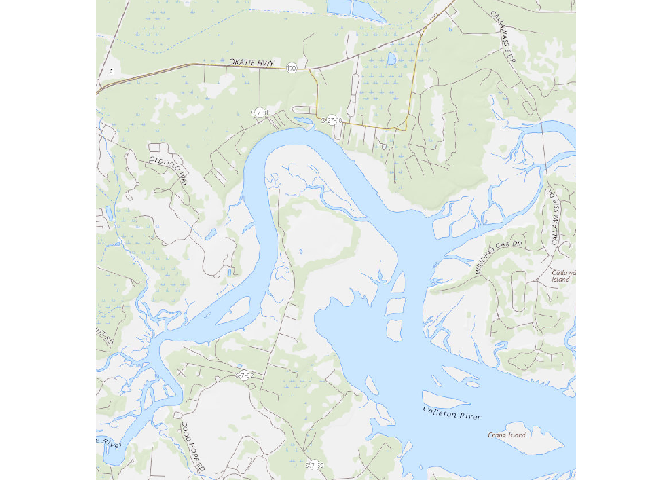
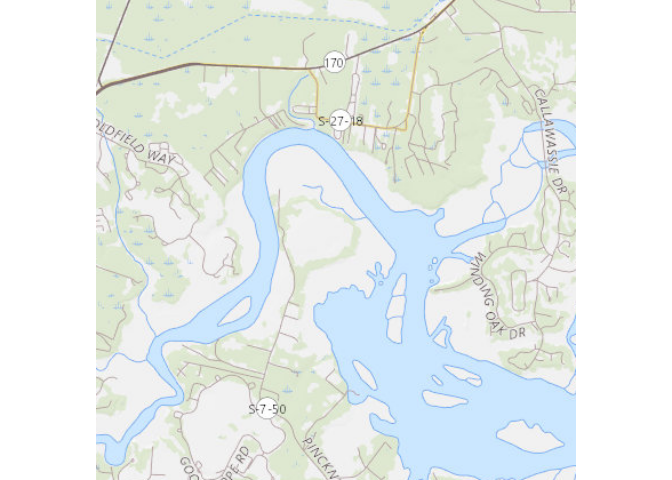
better defaults

diff --git a/README.md b/README.md
@@ -32,9 +32,9 @@ library(wmts)
 
 ## note that input can be centre (longlat pt), buffer (km) or a spatial object (ignore buffer)
 ## output is a raster in World Mercator
-x <- wmts(u, centre, buffer = radius)
-#> zoom: 14
-raster::plotRGB(x)
+x <- wmts(u, centre, buffer = radius) ## zoom determined interactively, don't use a hardcoded zoom
+#> zoom: 13
+raster::plotRGB(x, interpolate = TRUE)
 ```
 
 <img src="man/figures/README-example-1.png" width="100%" />
@@ -49,7 +49,7 @@ names(tab) <- c("x", "y", "red", "green", "blue")
 tab$hex <- rgb(tab$red, tab$green, tab$blue, maxColorValue = 255)
 library(ggplot2)
 ggplot(tab, aes(x, y, fill = hex)) +
-  geom_raster() +
+  geom_raster(interpolate = TRUE) +
   coord_equal() +
   scale_fill_identity()
 ```
